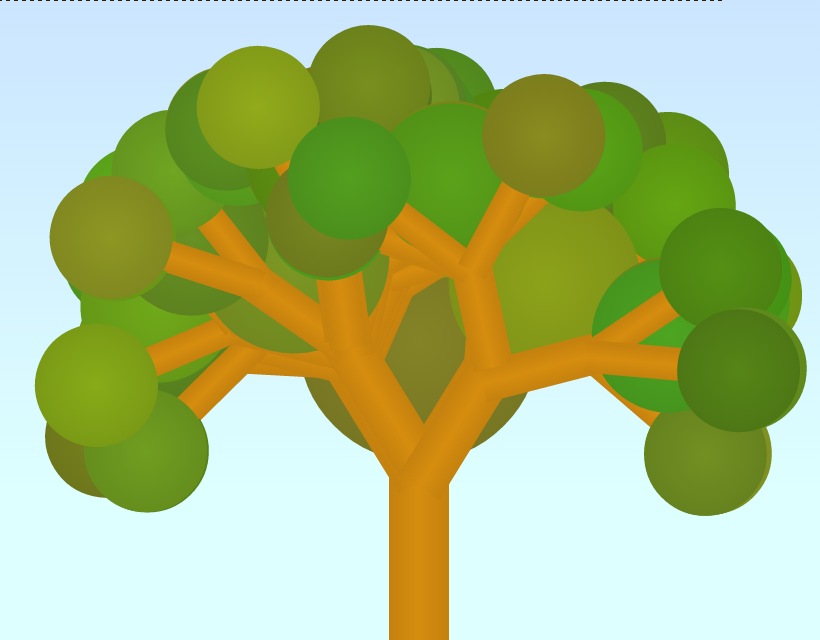
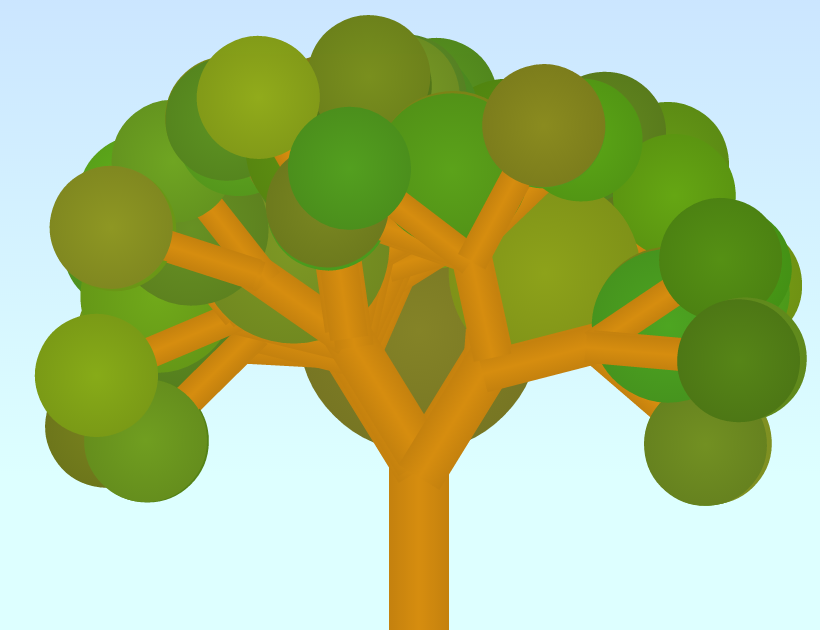
cduvall: small changes

diff --git a/index.html b/index.html
@@ -3,7 +3,7 @@
   <head>
     <title>Trees</title>
     <meta name="description" content="Grow trees! What fun!">
-    <meta property="og:image" content="http://clarkduvall.github.io/trees/tree.png">
+    <meta property="og:image" content="http://clarkduvall.github.io/trees/tree2.png">
     <link href='http://fonts.googleapis.com/css?family=Varela+Round' rel='stylesheet' type='text/css'>
     <link href="css/trees.css" rel="stylesheet" type="text/css">
     <link rel="icon" href="favicon.ico">
